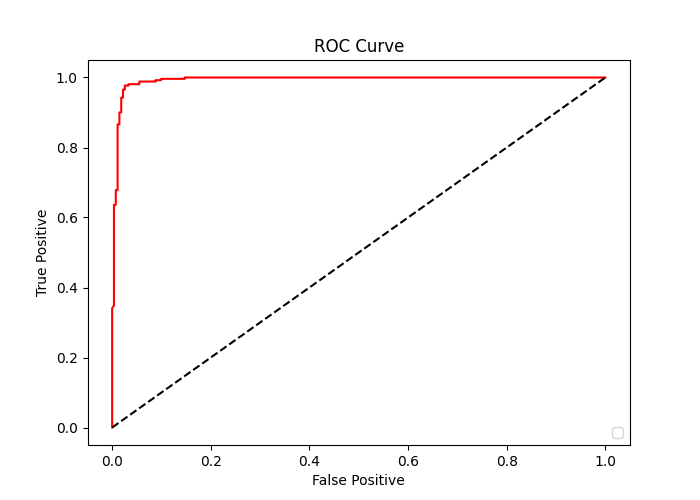
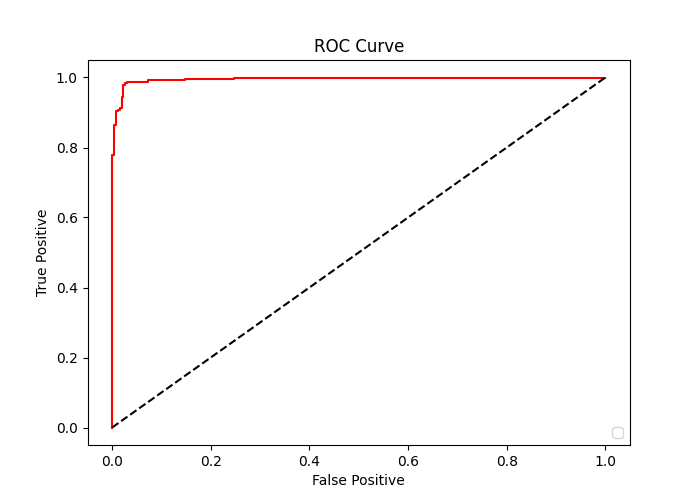
stacked results and scripts

Changed region(s): [[0.18, 0.15, 0.87, 0.18], [0.15, 0.21, 0.18, 0.63]]

diff --git a/stacking_ensemble.py b/stacking_ensemble.py
@@ -1,0 +1,282 @@
+import numpy as np
+import pandas as pd
+import matplotlib.pyplot as plt
+import seaborn as sns
+import cv2
+import os
+from tensorflow import keras
+from tqdm import tqdm
+import tensorflow
+from sklearn.metrics import confusion_matrix
+from tensorflow.keras.models import *
+from tensorflow.keras.layers import *
+from tensorflow.keras.optimizers import Adam
+from tensorflow.keras.metrics import categorical_crossentropy
+from tensorflow.keras.preprocessing.image import ImageDataGenerator
+from sklearn.metrics import confusion_matrix
+from tensorflow.keras.applications.densenet import DenseNet121
+from tensorflow.keras.callbacks import *
+from tensorflow.keras import backend as K
+K.clear_session()
+import itertools
+import matplotlib.pyplot as plt
+import cv2
+import matplotlib.cm as cm
+from tensorflow.keras.utils import to_categorical
+from sklearn.preprocessing import LabelBinarizer,LabelEncoder
+from sklearn.model_selection import train_test_split
+from sklearn.metrics import classification_report
+from sklearn.metrics import confusion_matrix
+import tensorflow as tf
+from tensorflow.keras.applications import *
+import tensorflow as tf
+from sklearn.preprocessing import OneHotEncoder
+from sklearn.cluster import KMeans
+from sklearn.metrics import precision_recall_fscore_support
+from sklearn.model_selection import train_test_split, GroupShuffleSplit, GroupKFold
+from sklearn.metrics import precision_recall_fscore_support
+from sklearn.metrics import roc_curve
+from sklearn.metrics import auc
+from sklearn.metrics import classification_report, confusion_matrix
+
+#Data to be loaded as X_train,Y_train and X_test,Y_test with onehot encoded labels
+disease_types = ['COVID', 'non-COVID']
+data_dir = r'C:\Users\ivan.mitkov\Documents\unibit\data'
+train_dir = os.path.join(data_dir)
+
+train_data = []
+for defects_id, sp in enumerate(disease_types):
+    for file in os.listdir(os.path.join(train_dir, sp)):
+        train_data.append(['{}/{}'.format(sp, file), defects_id, sp])
+
+train = pd.DataFrame(train_data, columns=['File', 'DiseaseID', 'Disease Type'])
+train.head()
+
+train.info()
+
+SEED = 42
+train = train.sample(frac=1, random_state=SEED)
+train.index = np.arange(len(train))  # Reset indices
+train.head()
+
+train.info()
+
+
+IMAGE_SIZE = 224
+
+
+def read_image(filepath):
+    return cv2.imread(os.path.join(data_dir, filepath))  # Loading a color image is the default flag
+
+
+# Resize image to target size
+def resize_image(image, image_size):
+    return cv2.resize(image.copy(), image_size, interpolation=cv2.INTER_AREA)
+
+
+X = np.zeros((train.shape[0], IMAGE_SIZE, IMAGE_SIZE, 3))
+for i, file in tqdm(enumerate(train['File'].values)):
+    image = read_image(file)
+    if image is not None:
+        X[i] = resize_image(image, (IMAGE_SIZE, IMAGE_SIZE))
+# Normalize the data
+X = X / 255.
+print('Train Shape: {}'.format(X.shape))
+
+y = train['DiseaseID'].values
+y = to_categorical(y, num_classes=2)
+print(y.shape)
+
+BATCH_SIZE = 64
+
+# Split the train and validation sets through kmeans
+X0 = X[train['DiseaseID'] == 0, :, :].reshape(len(X[train['DiseaseID'] == 0, :, :]), -1)
+X1 = X[train['DiseaseID'] == 1, :, :].reshape(len(X[train['DiseaseID'] == 1, :, :]), -1)
+
+k = 60
+kmeans = KMeans(k)
+cluster0 = kmeans.fit_predict(X0)
+cluster1 = kmeans.fit_predict(X1)
+cluster1 += k
+cluster = np.concatenate([cluster0, cluster1])
+
+# split data
+train_idx, val_idx = next(GroupShuffleSplit(test_size = 0.2,
+                                            n_splits = 2,
+                                            random_state = SEED).split(X, groups = cluster))
+
+X_train, X_val, Y_train, Y_val = X[train_idx], X[val_idx], y[train_idx], y[val_idx]
+
+print(f'X_train:', X_train.shape)
+print(f'X_val:', X_val.shape)
+print(f'Y_train:', Y_train.shape)
+print(f'Y_val:', Y_val.shape)
+
+NO_OF_CHANNELS = 3
+input_shape=(IMAGE_SIZE, IMAGE_SIZE, NO_OF_CHANNELS)
+n_classes=2
+
+"""# **Evaluation**"""
+
+our_vgg = tf.keras.models.load_model('kmeans_data_augm_unfreezed_vgg16.h5')
+our_xcep = tf.keras.models.load_model('kmeans_data_augm_unfreezed_xception.h5')
+our_res = tf.keras.models.load_model('kmeans_data_augm_unfreezed_resnet50.h5')
+
+print("-"*30)
+print("VGG16")
+print(our_vgg.evaluate(X_val, Y_val))
+print("-"*30)
+print("Xception")
+print(our_xcep.evaluate(X_val, Y_val))
+print("-"*30)
+print("ResNet50")
+print(our_res.evaluate(X_val, Y_val))
+print("-"*30)
+
+our_vgg.trainable = False
+our_xcep.trainable = False
+our_res.trainable = False
+
+#Delete unused variables and clear garbage values
+#del history1, model1, hist_df
+import gc
+
+gc.collect()
+
+"""# **Ensemble**"""
+
+def stacking_ensemble(members,input_shape,n_classes):
+    commonInput = Input(shape=input_shape)
+    out=[]
+
+    for model in members:
+        model._name= model.get_layer(index = 0)._name +"-test"+ str(members.index(model)+1)
+        out.append(model(commonInput))
+
+    modeltmp = concatenate(out,axis=-1)
+    #modeltmp = Dense(256, activation='relu')(modeltmp)
+    modeltmp = Dense(128, activation='relu')(modeltmp)
+    modeltmp = Dropout(0.1)(modeltmp)
+    modeltmp = Dense(n_classes, activation='softmax')(modeltmp)
+    stacked_model = Model(commonInput,modeltmp)
+    stacked_model.compile( loss='categorical_crossentropy',optimizer= optimizer, metrics=['accuracy'])
+
+    return stacked_model
+
+members =[our_vgg, our_xcep, our_res]
+
+batch=16
+optimizer= Adam(lr=5e-5, beta_1=0.9, beta_2=0.999)
+
+stacked = stacking_ensemble(members, input_shape, n_classes)
+print(stacked.summary())
+
+stacked_checkpoint = ModelCheckpoint("stacked_best.h5", monitor='val_accuracy', verbose=1,
+    save_best_only=True, mode='auto', period=1)
+
+# reduce learning rate and configure early stop
+reduce_learning_rate = ReduceLROnPlateau(monitor='val_loss',
+                                         factor=0.1,
+                                         patience=5,
+                                         cooldown=2,
+                                         min_lr=1e-8,
+                                         verbose=1)
+
+EPOCHS = 50
+
+stacked_hist = stacked.fit(X_train,Y_train,
+                            epochs=EPOCHS, #epochs,
+                            verbose=1,
+                            batch_size = 16,
+                            validation_data= (X_val, Y_val),
+                            callbacks=[reduce_learning_rate, stacked_checkpoint])
+
+
+
+stacked.evaluate(X_val, Y_val)
+
+#del stacked_hist, stacked
+gc.collect()
+
+stacked = tf.keras.models.load_model("stacked_best.h5")
+print("-.-"*30)
+print('Model Name: Stacked')
+print(stacked.evaluate(X_val, Y_val))
+print("-.-"*30)
+
+"""# **Finding F1 score etc.**"""
+
+# True values
+y_true = Y_val.argmax(axis=-1)
+
+def confusion(model):
+  #Predicted values
+  prob = model.predict(X_val)
+  y_pred = prob.argmax(axis= -1)
+  # Print the confusion matrix
+  print("--"*30)
+  print(confusion_matrix(y_true, y_pred))
+  print("--"*30)
+  # Print the precision and recall, among other metrics
+  print(classification_report(y_true, y_pred, digits=6))
+  print("--"*30)
+
+our_models =  {"VGG16": our_vgg, "Xception": our_xcep, "ResNet50": our_res, "Stacked": stacked}
+for m in our_models:
+  print("--"*30)
+  print(m)
+  print("--"*30)
+  confusion(our_models[m])
+
+# compare similar metrics to the previous approaches
+final_loss, final_accuracy = stacked.evaluate(X_val, Y_val)
+Y_pred = stacked.predict(X_val)
+Y_pred = np.argmax(Y_pred, axis=1)
+
+print('Final Loss: {}, Final Accuracy: {}'.format(final_loss, final_accuracy))
+print('Precision:', precision_recall_fscore_support(y_true, Y_pred, average='weighted')[0])
+print('Recall:', precision_recall_fscore_support(y_true, Y_pred, average='weighted')[1])
+print('F1:', precision_recall_fscore_support(y_true, Y_pred, average='weighted')[2])
+
+# graphs
+cm = confusion_matrix(y_true, Y_pred)
+plt.figure(figsize=(12, 12))
+ax = sns.heatmap(cm, cmap=plt.cm.Greens, annot=True, square=True, xticklabels=disease_types, yticklabels=disease_types,
+                 fmt='g')
+ax.set_ylabel('Actual', fontsize=40)
+ax.set_xlabel('Predicted', fontsize=40)
+
+# accuracy plot
+plt.plot(stacked_hist.history['accuracy'])
+plt.plot(stacked_hist.history['val_accuracy'])
+plt.title('model accuracy')
+plt.ylabel('accuracy')
+plt.xlabel('epoch')
+plt.legend(['train', 'test'], loc='upper left')
+plt.show()
+
+# loss plot
+plt.plot(stacked_hist.history['loss'])
+plt.plot(stacked_hist.history['val_loss'])
+plt.title('model loss')
+plt.ylabel('loss')
+plt.xlabel('epoch')
+plt.legend(['train', 'test'], loc='upper left')
+plt.show()
+
+
+#auc
+pred_proba = stacked.predict(X_val)
+pred = pred_proba[:, 1]
+from sklearn.metrics import make_scorer, accuracy_score, roc_auc_score, roc_curve
+auc_score = roc_auc_score(y_true, pred)
+fpr, tpr, th = roc_curve(y_true, pred)
+print('AUC Score:\t', round(auc_score, 2))
+plt.figure(figsize = (7, 5))
+plt.title('ROC Curve')
+plt.plot(fpr, tpr, 'r')
+plt.plot([0, 1], [0, 1], 'k--')
+plt.xlabel('False Positive')
+plt.ylabel('True Positive')
+plt.legend(loc = 4)
+plt.show()
